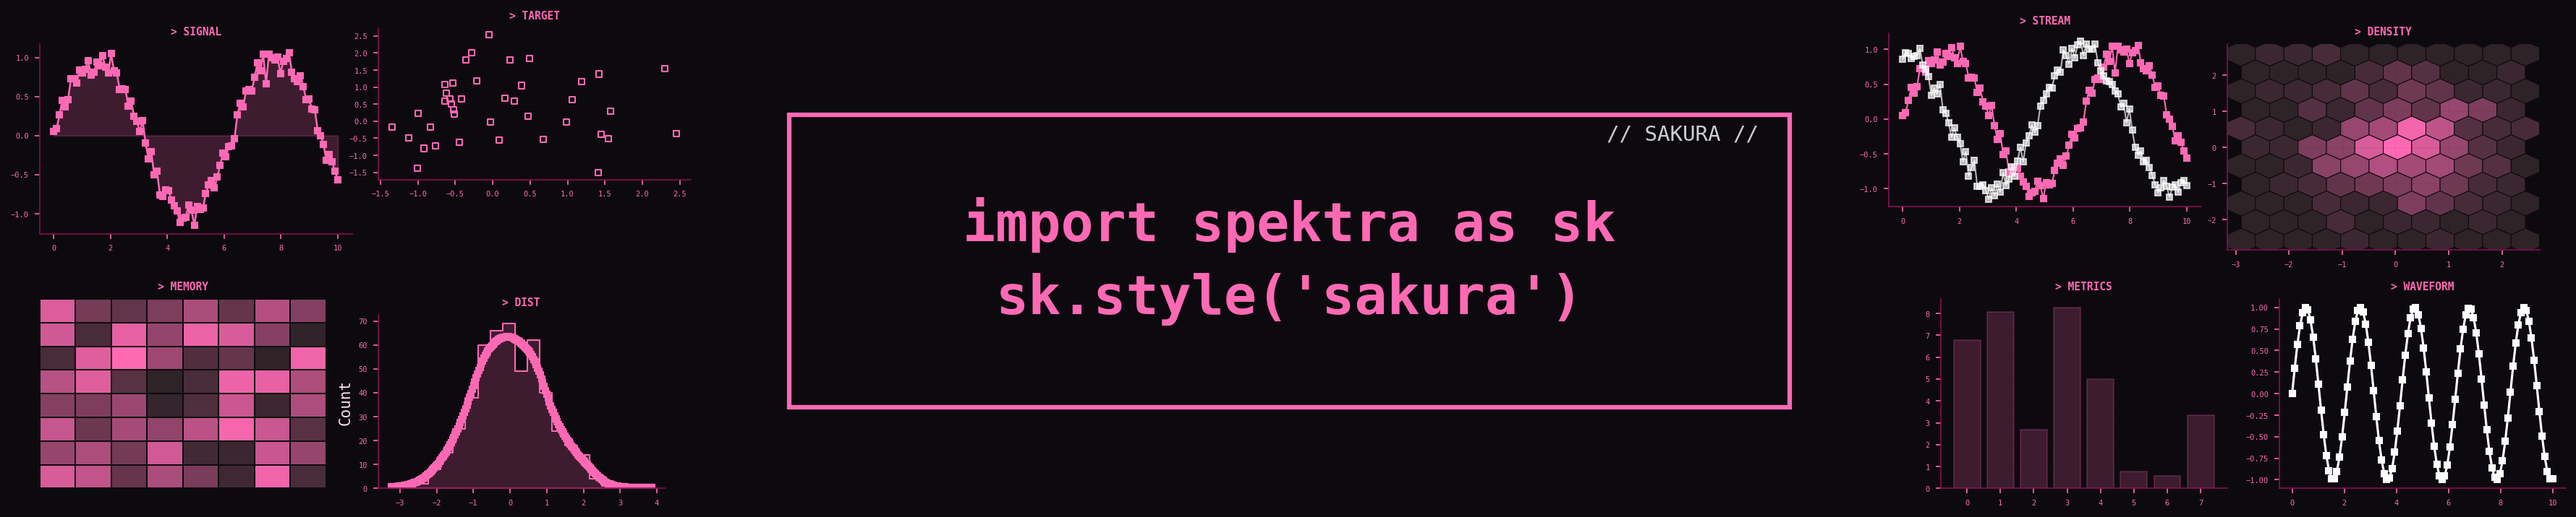
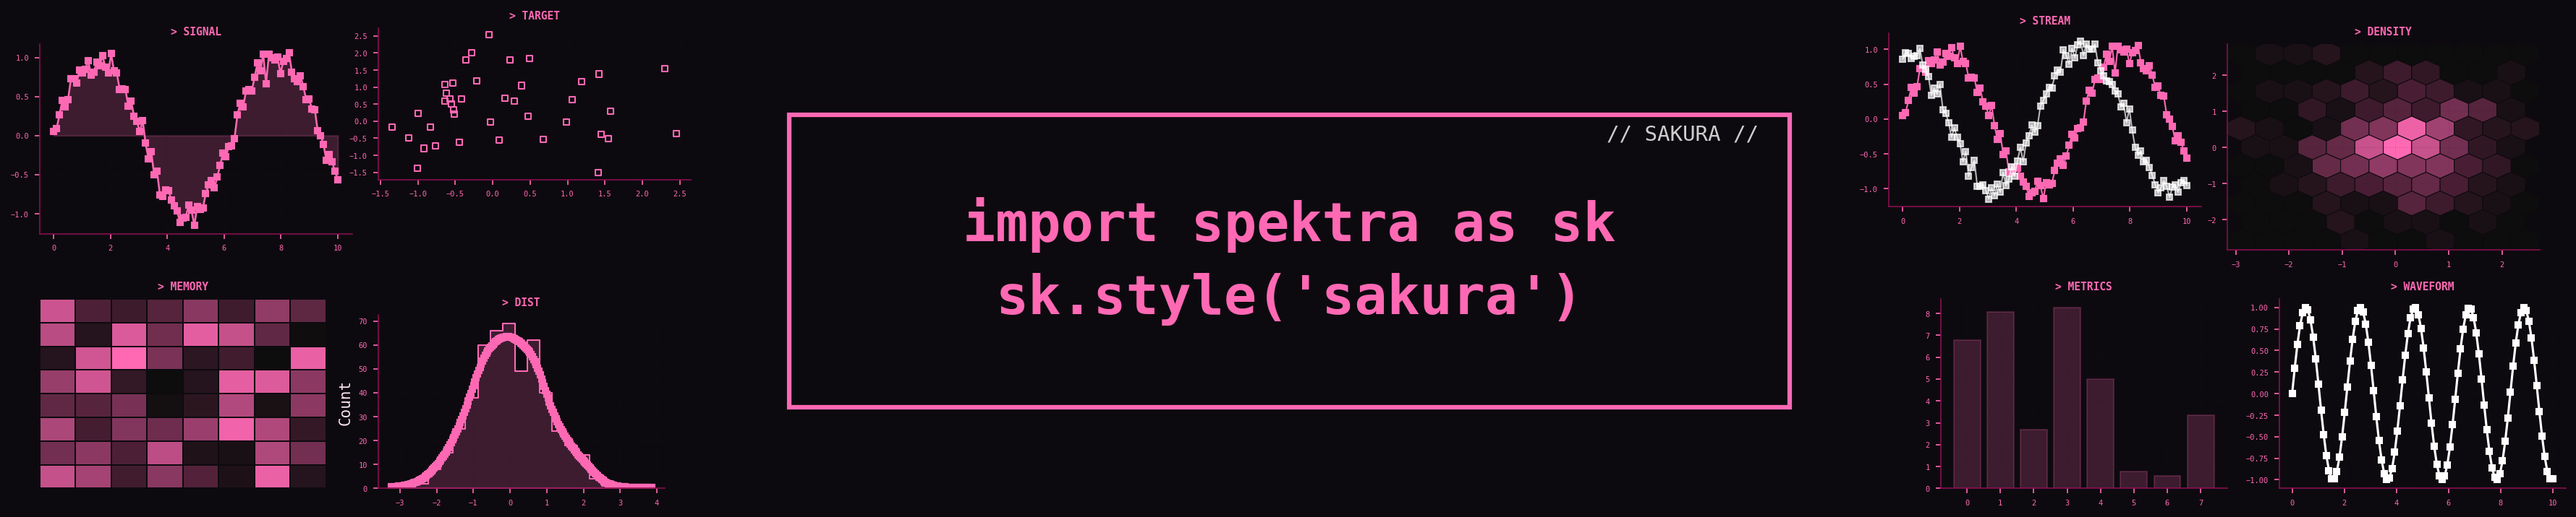
Add nightshade and mitsuki + update headers

Changed region(s): [[0.8416, 0.0615, 0.9975, 0.4916], [0.0, 0.5531, 0.1247, 0.9525]]

diff --git a/spektra/themes.py b/spektra/themes.py
@@ -102,7 +102,7 @@ def style_matplotlib(theme_name="ember"):
     """Apply a theme to matplotlib/seaborn.
 
     Args:
-        theme_name: Name of theme to apply. Options: 'ember', 'neon', 'ash', 'raiden', 'sakura'.
+        theme_name: Name of theme to apply. Options: 'ash', 'ember', 'mitsuki', 'neon', 'nightshade', 'raiden', 'sakura', 'sky'.
 
     Examples:
         >>> import spektra as sk
@@ -127,9 +127,8 @@ def style_matplotlib(theme_name="ember"):
 def style_plotly(theme_name="ember"):
     """Apply a theme to plotly.
 
-    Args:
-        theme_name: Name of theme to apply. Options: 'ember', 'neon', 'ash', 'raiden', 'sakura'.
-
+            Args:
+                theme_name: Name of theme to apply. Options: 'ash', 'ember', 'mitsuki', 'neon', 'nightshade', 'raiden', 'sakura', 'sky'.
     Examples:
         >>> import spektra as sk
         >>> sk.style_plotly('ember')
@@ -173,13 +172,13 @@ def style(theme_name="ember"):
     """Apply a theme to both matplotlib and plotly.
 
     Args:
-        theme_name: Name of theme to apply. Options: 'ember', 'neon', 'ash', 'raiden', 'sakura'.
+        theme_name: Name of theme to apply. Options: 'ash', 'ember', 'mitsuki', 'neon', 'nightshade', 'raiden', 'sakura', 'sky'.
 
     Examples:
         >>> import spektra as sk
         >>> sk.style('ember')
         >>> sk.get_available_themes()
-        ['ash', 'ember', 'neon', 'raiden', 'sakura']
+        ['ash', 'ember', 'mitsuki', 'neon', 'nightshade', 'raiden', 'sakura', 'sky']
     """
     style_matplotlib(theme_name)
     style_plotly(theme_name)

diff --git a/examples/matplotlib_dash.py b/examples/matplotlib_dash.py
@@ -3,7 +3,7 @@ import matplotlib.pyplot as plt
 import seaborn as sns
 import numpy as np
 
-sk.style("ember")
+sk.style("mitsuki")
 c = sk.get_config()
 colors = c["colors"]
 settings = c["settings"]
@@ -17,7 +17,7 @@ dist_data = np.random.normal(0, 1, 500)
 matrix_data = np.random.rand(12, 12)
 
 fig, axs = plt.subplots(2, 3, figsize=(18, 10))
-theme_mode = sk.get_current_theme()
+theme_mode = sk.get_theme()
 title_base = "BIOMETRIC_STABILITY" if theme_mode == "ash" else "TACTICAL_OVERRIDE"
 fig.suptitle(
     f"// {title_base} // MODE_{theme_mode.upper()}",

diff --git a/header/create_header.py b/header/create_header.py
@@ -187,7 +187,7 @@ def create_header(theme_name, output_dir="."):
 
 
 def create_all_headers(output_dir="."):
-    themes = sk.available_themes()
+    themes = sk.get_available_themes()
 
     print(f"Creating headers for {len(themes)} themes...")
     print(f"Output directory: {os.path.abspath(output_dir)}\n")
